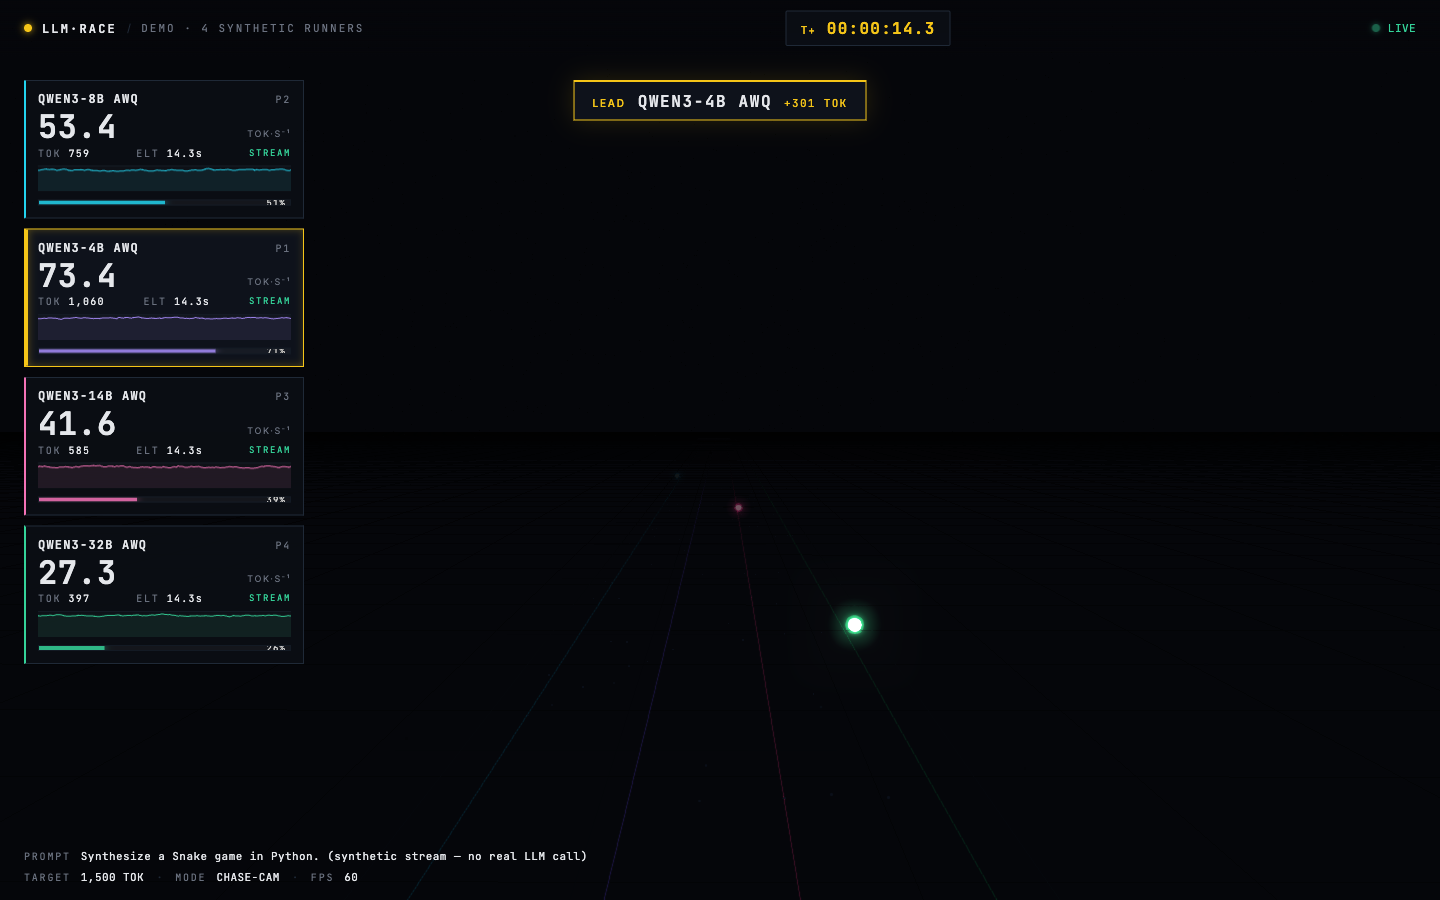
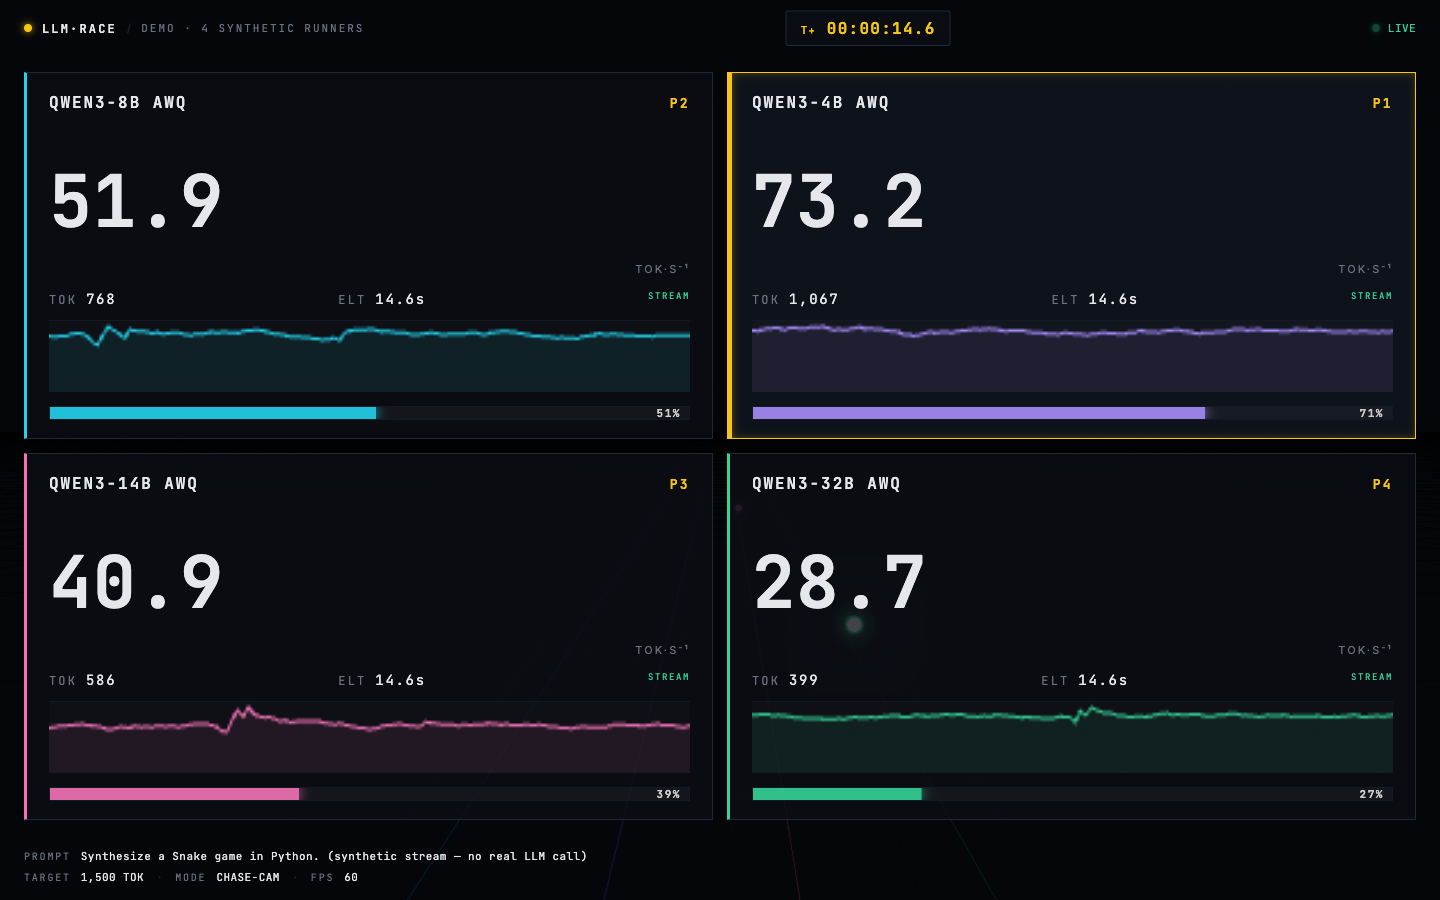
v0.3: full-screen 2x2 telemetry grid
Panels now fill the entire viewport instead of a 280px left rail. Grid
auto-shapes by runner count (1 → single, 3 → 1x3, 4 → 2x2, 5-6 → 3x2,
7-8 → 4x2). Numerics scale to 8vh, sparklines to 8vh tall, progress bars
to 14px. Leader callout hidden in fullscreen mode (lead panel's yellow
border + P1 chip already convey leadership). Panel backgrounds set to
78% alpha so the Three.js conduit reads through as a backdrop.

diff --git a/llm_race/web/style.css b/llm_race/web/style.css
@@ -1,7 +1,7 @@
 :root {
   --bg-void: #05060A;
-  --bg-panel: rgba(11, 14, 20, 0.92);
-  --bg-panel-hi: rgba(15, 19, 28, 0.96);
+  --bg-panel: rgba(11, 14, 20, 0.78);
+  --bg-panel-hi: rgba(15, 19, 28, 0.88);
   --border: #1F2937;
   --border-soft: #131A24;
   --text: #E5E7EB;
@@ -134,29 +134,46 @@ html, body {
   50% { opacity: 0.3; }
 }
 
-/* ---------- TELEMETRY PANELS (left edge) ---------- */
+/* ---------- TELEMETRY PANELS (full-screen grid) ---------- */
 .hud-panels {
   position: fixed;
-  top: 80px;
+  top: 72px;
   left: 24px;
-  display: flex;
-  flex-direction: column;
-  gap: 10px;
+  right: 24px;
+  bottom: 80px;
+  display: grid;
+  grid-auto-rows: 1fr;
+  gap: 14px;
   z-index: 8;
-  width: 280px;
+  grid-template-columns: repeat(2, 1fr);   /* default for 2 + 4 runners */
+}
+.hud-panels[data-count="1"] {
+  grid-template-columns: 1fr;
+}
+.hud-panels[data-count="3"] {
+  grid-template-columns: repeat(3, 1fr);
+}
+.hud-panels[data-count="5"],
+.hud-panels[data-count="6"] {
+  grid-template-columns: repeat(3, 1fr);
+}
+.hud-panels[data-count="7"],
+.hud-panels[data-count="8"] {
+  grid-template-columns: repeat(4, 1fr);
 }
 
 .runner-panel {
   background: var(--bg-panel);
   border: 1px solid var(--border);
-  border-left: 2px solid var(--runner-color, var(--muted));
-  padding: 10px 12px 12px;
+  border-left: 3px solid var(--runner-color, var(--muted));
+  padding: 18px 22px 18px;
   display: grid;
   grid-template-columns: 1fr auto;
-  grid-template-rows: auto auto auto;
-  gap: 4px 12px;
+  grid-template-rows: auto 1fr auto auto auto;
+  gap: 6px 14px;
   position: relative;
   overflow: hidden;
+  min-height: 0;
 }
 .runner-panel.lead {
   background: var(--bg-panel-hi);
@@ -182,8 +199,8 @@ html, body {
 .rp-id {
   font-family: 'JetBrains Mono', ui-monospace, monospace;
   font-weight: 600;
-  font-size: 12px;
-  letter-spacing: 0.1em;
+  font-size: 16px;
+  letter-spacing: 0.12em;
   color: var(--text);
   text-transform: uppercase;
   white-space: nowrap;
@@ -192,39 +209,41 @@ html, body {
 }
 .rp-pos {
   font-family: 'JetBrains Mono', ui-monospace, monospace;
-  font-size: 10px;
-  color: var(--muted);
+  font-size: 13px;
+  font-weight: 600;
+  color: var(--accent-warn);
   letter-spacing: 0.18em;
 }
 .rp-tps {
   font-family: 'JetBrains Mono', ui-monospace, monospace;
-  font-size: 32px;
+  font-size: clamp(48px, 8vh, 96px);
   font-weight: 600;
   color: var(--text);
   line-height: 1;
+  align-self: center;
 }
 .rp-tps-unit {
-  font-size: 9px;
+  font-size: 11px;
   color: var(--muted);
-  letter-spacing: 0.18em;
+  letter-spacing: 0.2em;
   text-transform: uppercase;
   align-self: end;
-  padding-bottom: 4px;
+  padding-bottom: 8px;
 }
 .rp-meta {
   grid-column: 1 / -1;
   display: flex;
   justify-content: space-between;
   font-family: 'JetBrains Mono', ui-monospace, monospace;
-  font-size: 10px;
+  font-size: 12px;
   color: var(--muted);
-  letter-spacing: 0.12em;
+  letter-spacing: 0.14em;
 }
-.rp-meta .v { color: var(--text); }
+.rp-meta .v { color: var(--text); font-size: 14px; }
 .rp-spark {
   grid-column: 1 / -1;
-  height: 26px;
-  margin-top: 2px;
+  height: clamp(40px, 8vh, 90px);
+  margin-top: 6px;
   background: rgba(255,255,255,0.015);
   border-top: 1px solid var(--border-soft);
   display: block;
@@ -234,8 +253,8 @@ html, body {
 .rp-progress {
   grid-column: 1 / -1;
   position: relative;
-  margin-top: 4px;
-  height: 6px;
+  margin-top: 8px;
+  height: 14px;
   background: rgba(255,255,255,0.04);
   border: 1px solid var(--border-soft);
   overflow: hidden;
@@ -247,17 +266,18 @@ html, body {
   height: 100%;
   background: var(--runner-color);
   transition: width 200ms ease-out;
-  opacity: 0.85;
-  box-shadow: 0 0 8px var(--runner-color);
+  opacity: 0.9;
+  box-shadow: 0 0 12px var(--runner-color);
 }
 .rp-progress-pct {
   position: absolute;
-  right: 4px;
+  right: 8px;
   top: 50%;
   transform: translateY(-50%);
   font-family: 'JetBrains Mono', ui-monospace, monospace;
-  font-size: 9px;
-  letter-spacing: 0.12em;
+  font-size: 11px;
+  font-weight: 600;
+  letter-spacing: 0.14em;
   color: var(--text);
   mix-blend-mode: difference;
 }
@@ -273,21 +293,10 @@ html, body {
 .rp-state.error { color: #F87171; }
 .rp-state.done { color: var(--accent-warn); }
 
-/* ---------- LEADER CALLOUT ---------- */
+/* ---------- LEADER CALLOUT (hidden in fullscreen panel mode — the lead
+   panel's yellow border + P1 chip already convey leadership) ---------- */
 .hud-leader {
-  position: fixed;
-  top: 80px;
-  left: 50%;
-  transform: translateX(-50%);
-  display: flex;
-  align-items: baseline;
-  gap: 12px;
-  background: var(--bg-panel-hi);
-  border: 1px solid var(--accent-warn);
-  border-top-width: 2px;
-  padding: 8px 18px;
-  z-index: 9;
-  box-shadow: 0 0 24px rgba(245,197,24,0.15);
+  display: none;
 }
 .hud-leader .label {
   font-size: 10px;

diff --git a/llm_race/web/main.js b/llm_race/web/main.js
@@ -287,6 +287,7 @@ function buildRunners(meta, target) {
   }
   runners.clear();
   panelsEl.innerHTML = '';
+  panelsEl.dataset.count = String(meta.length);
 
   meta.forEach((m, i) => {
     const lx = laneX(i, meta.length);
